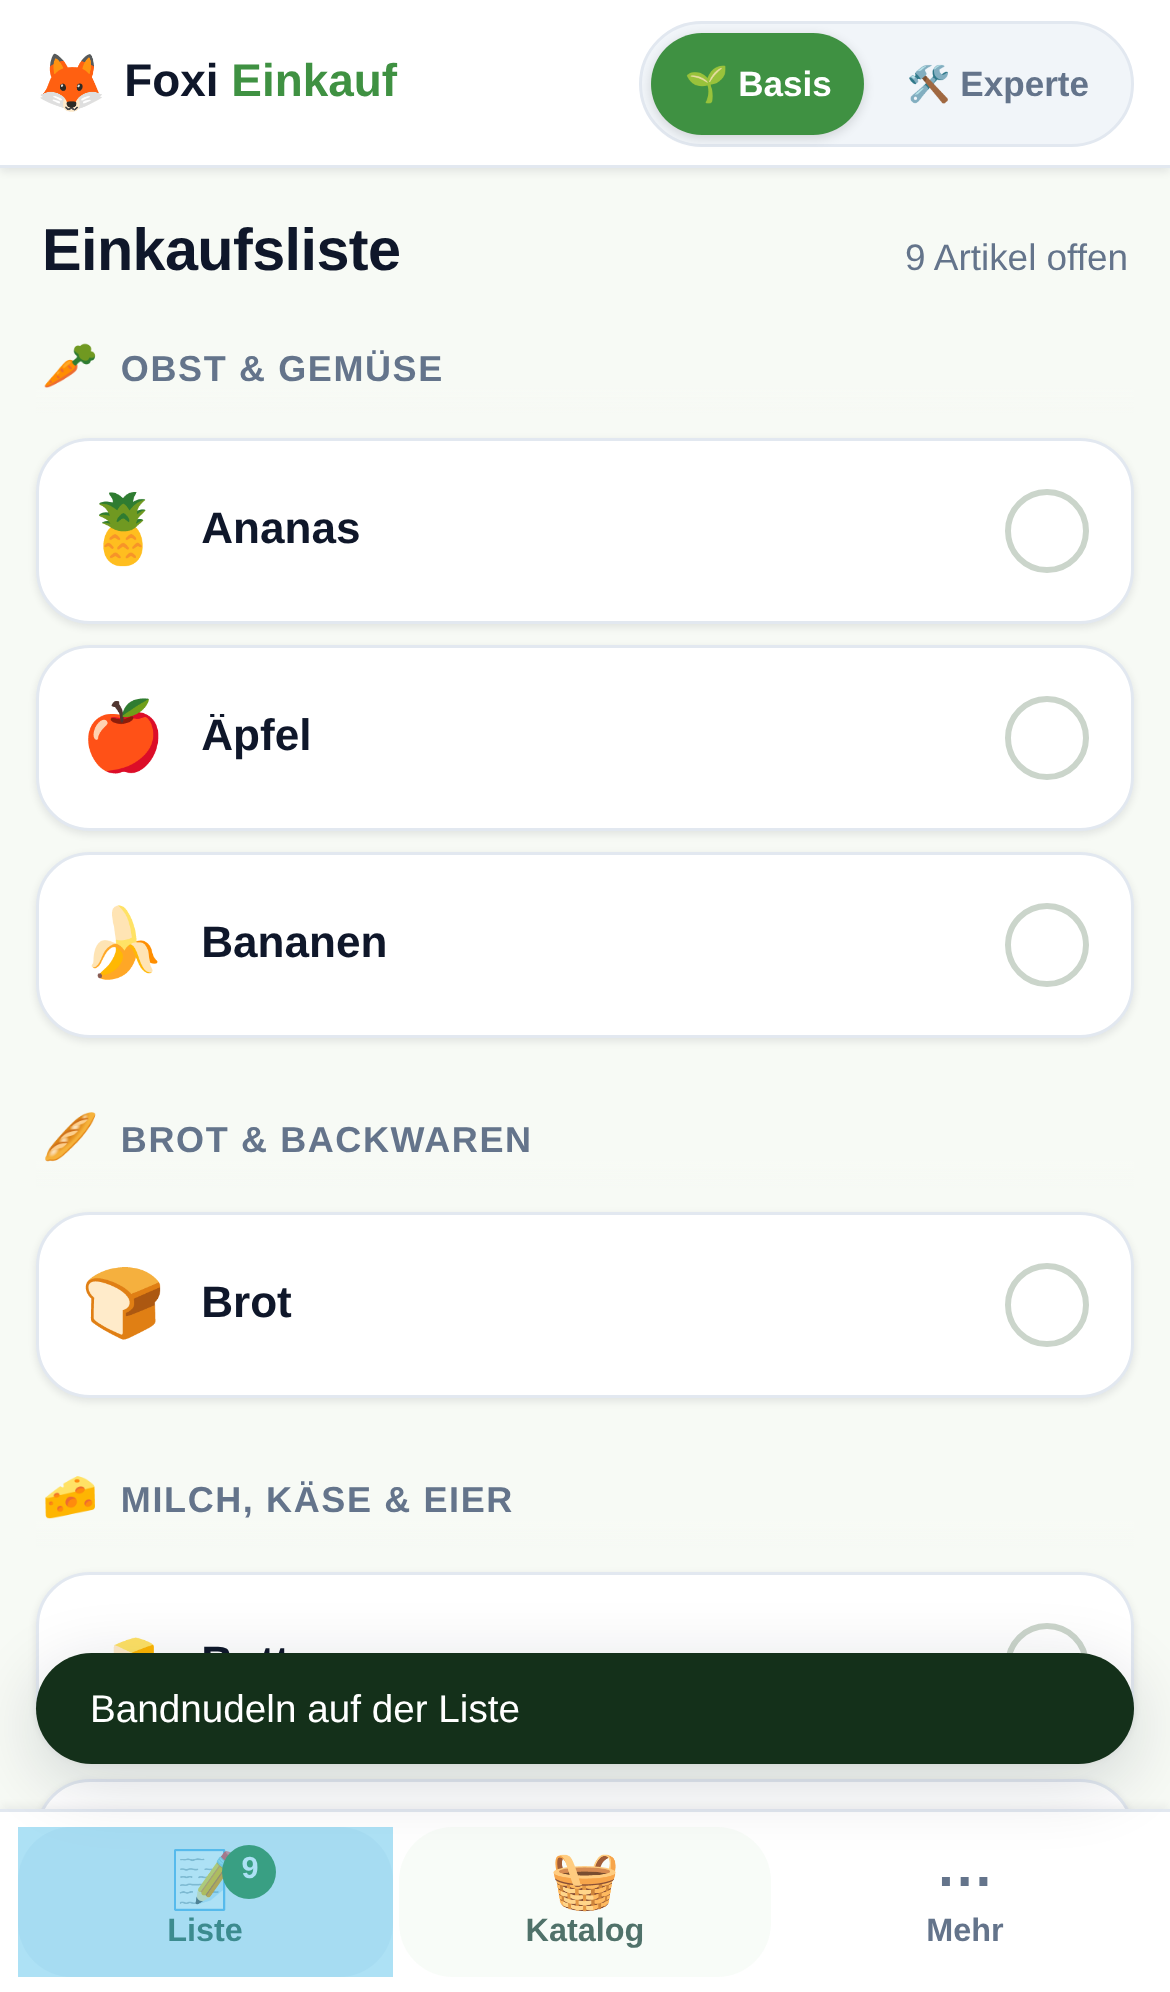
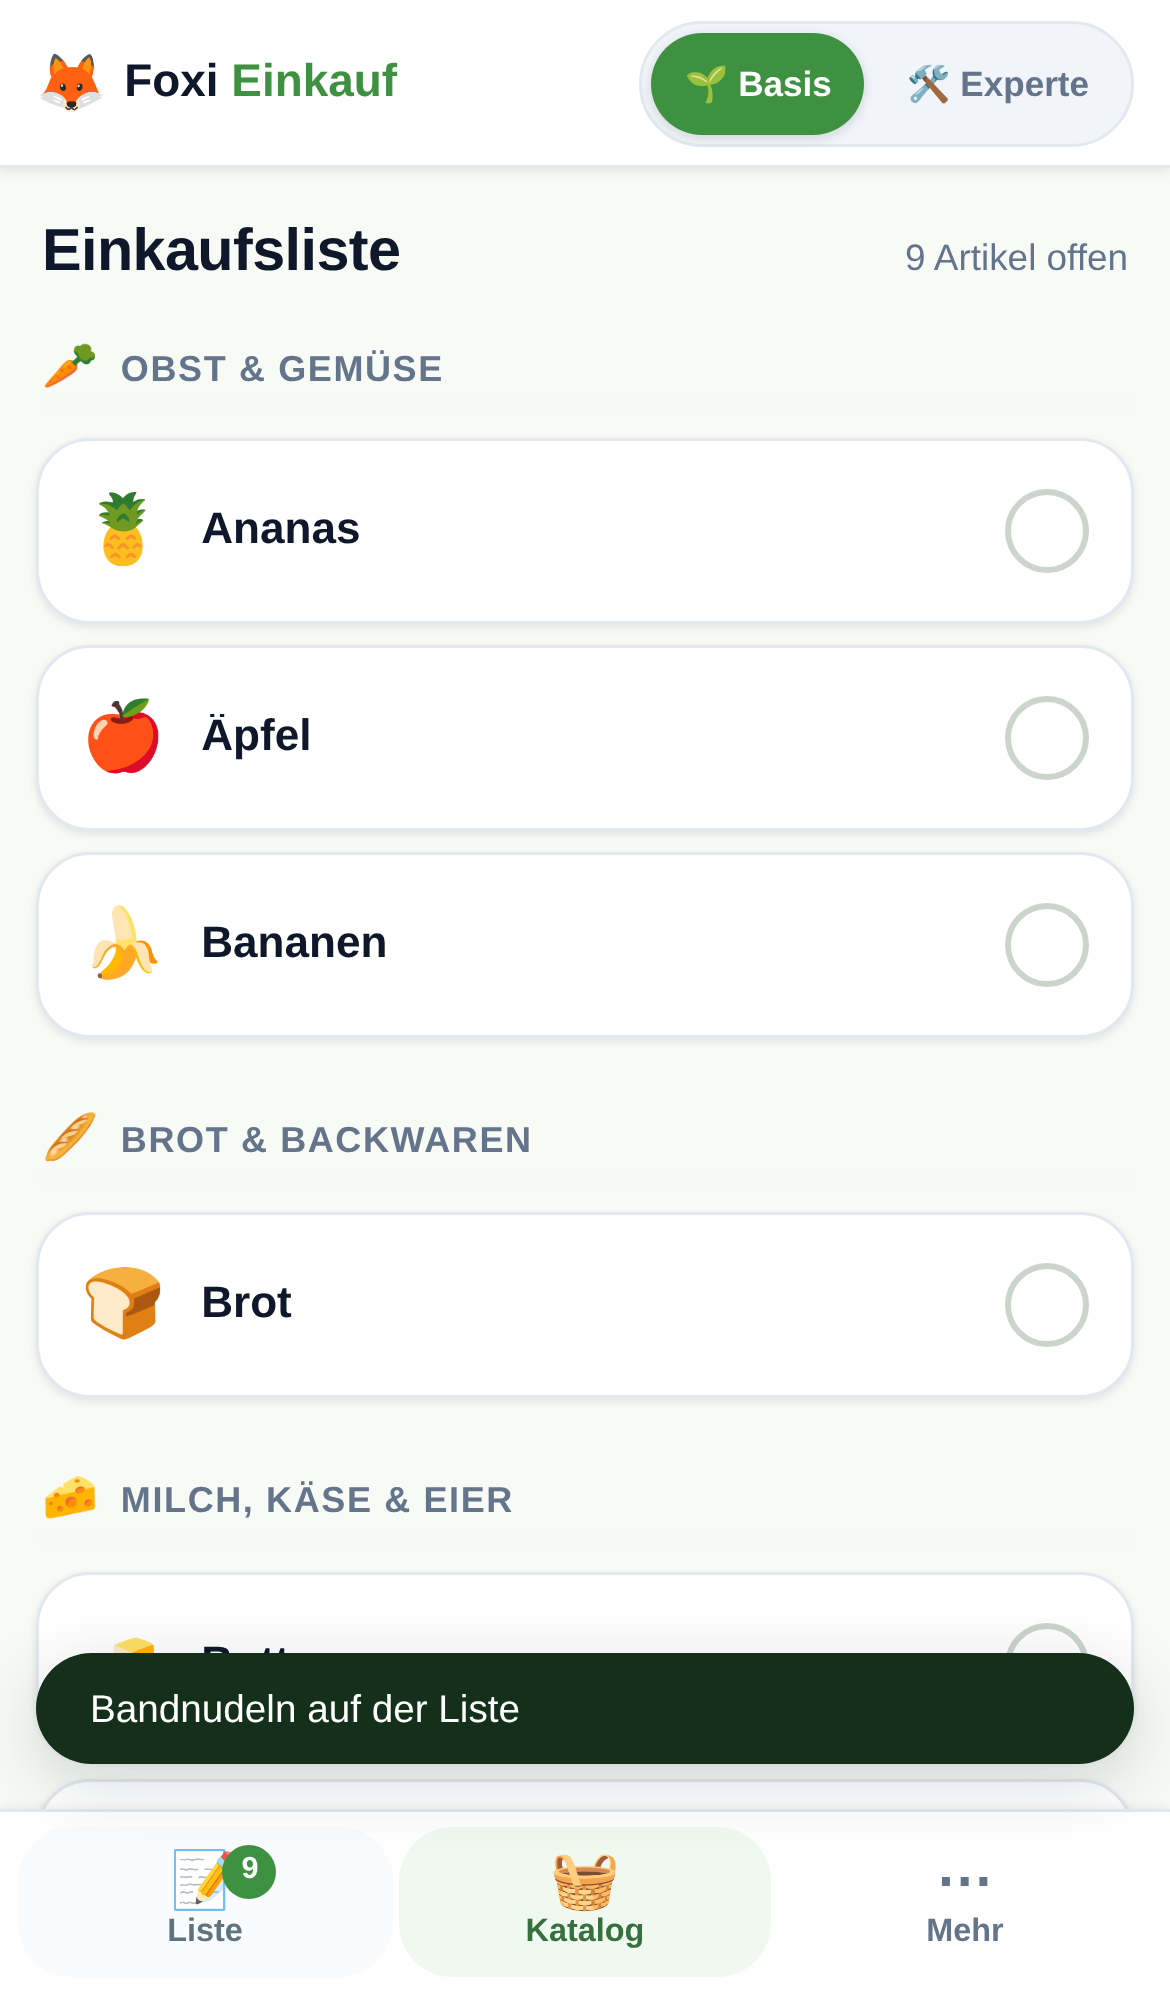
fix: blauer Tipp-Schimmer und ein Bild, das nicht zeigte, was es hieß
Beides beim Durchsehen der erzeugten Bilder aufgefallen.

Der Tipp-Schimmer: Mobile Browser legen über jedes angetippte Element
ein blaues Rechteck. Auf der unteren Leiste stand es sichtbar gegen
das Grün – und als Rückmeldung taugt es ohnehin nicht, weil es zu spät
kommt. Foxi antwortet stattdessen mit dem, was das Element selbst tut:
Die Kachel schrumpft unter dem Finger, die Zeile färbt sich, der
Reiter füllt sich. Der Reiter bekommt dafür einen eigenen
:active-Zustand, damit an dieser Stelle nichts verloren geht.

Das Bild: `11-statistik.png` zeigte keine Statistik, sondern den
Anfang des Bildschirms. Grund ist `fullPage` – es greift bei Foxi
nicht, weil nicht die Seite scrollt, sondern der Bereich darin
(`.bereich` liegt absolut mit eigenem Überlauf). Der Durchlauf scrollt
jetzt hin, statt ein Ganzseitenbild zu verlangen, das keines ist.
Dazu ein zweites Bild für das neue Ortsfeld.

Claude-Session: https://claude.ai/code/session_01NNKNAae3a93pT5VchizHZh

Changed region(s): [[0.0, 0.9026, 0.3385, 0.996], [0.4615, 0.9649, 0.5538, 0.996]]

diff --git a/src/styles/foxi.css b/src/styles/foxi.css
@@ -26,6 +26,12 @@
     grid-template-rows: var(--topbar-height) 1fr auto;
     overflow: hidden;
     overscroll-behavior: none;
+    /* Der blaue Standard-Schimmer, den mobile Browser über jedes angetippte
+       Element legen, arbeitet gegen das Grün – und er kommt zu spät, um als
+       Rückmeldung zu taugen. Foxi antwortet stattdessen mit dem, was das
+       Element selbst tut: Die Kachel schrumpft unter dem Finger, die Zeile
+       färbt sich, der Reiter füllt sich. */
+    -webkit-tap-highlight-color: transparent;
 }
 
 /* Kopfbereich – Form aus TourFuchs, nur der Leitton ist grün. */
@@ -668,6 +674,7 @@ body:not(.modus-experte) .experte-nur { display: none !important; }
 }
 .tab .tab-icon { font-size: 1.25rem; line-height: 1; }
 .tab:hover:not(.active) { background: var(--color-surface-2); }
+.tab:active { background: var(--color-primary-light); }
 .tab.active { background: var(--color-primary-soft); color: var(--color-primary-dark); }
 .tab:focus-visible { outline: 2px solid var(--color-primary); outline-offset: -2px; }
 
